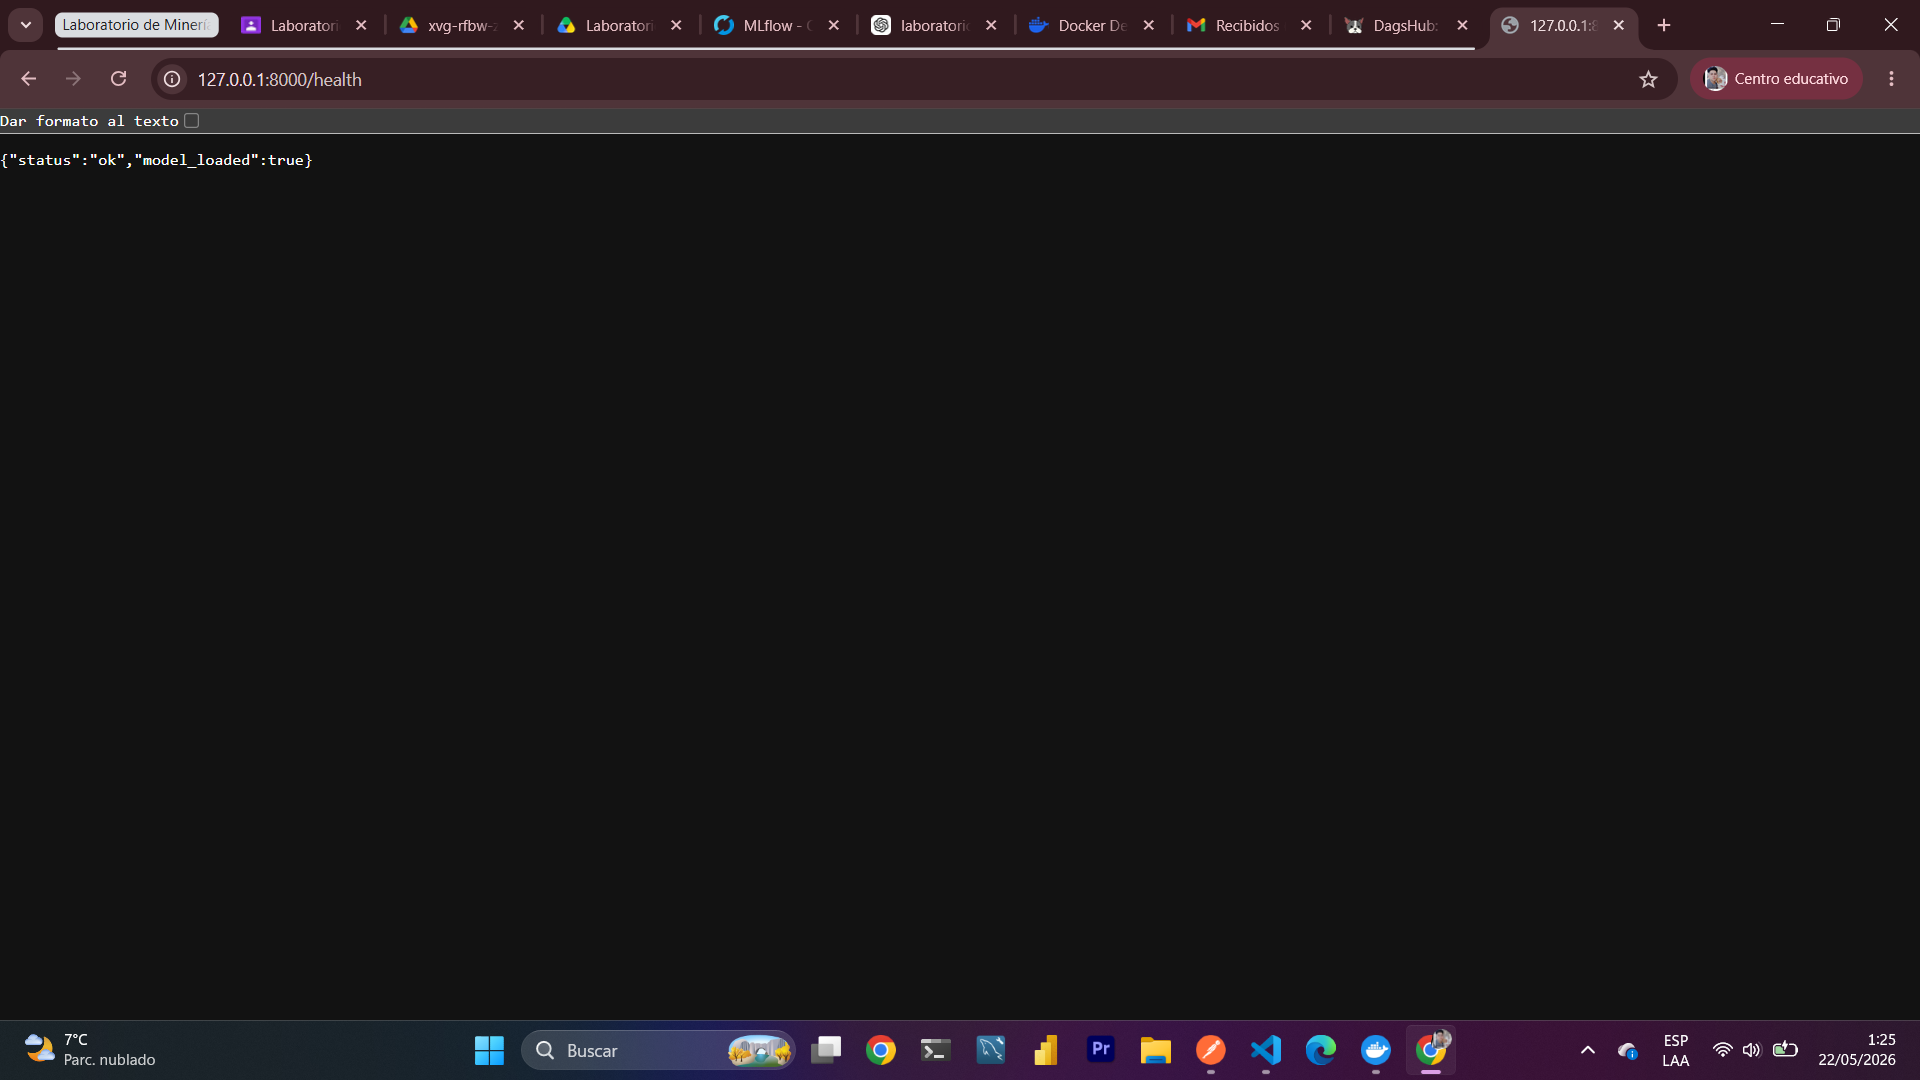
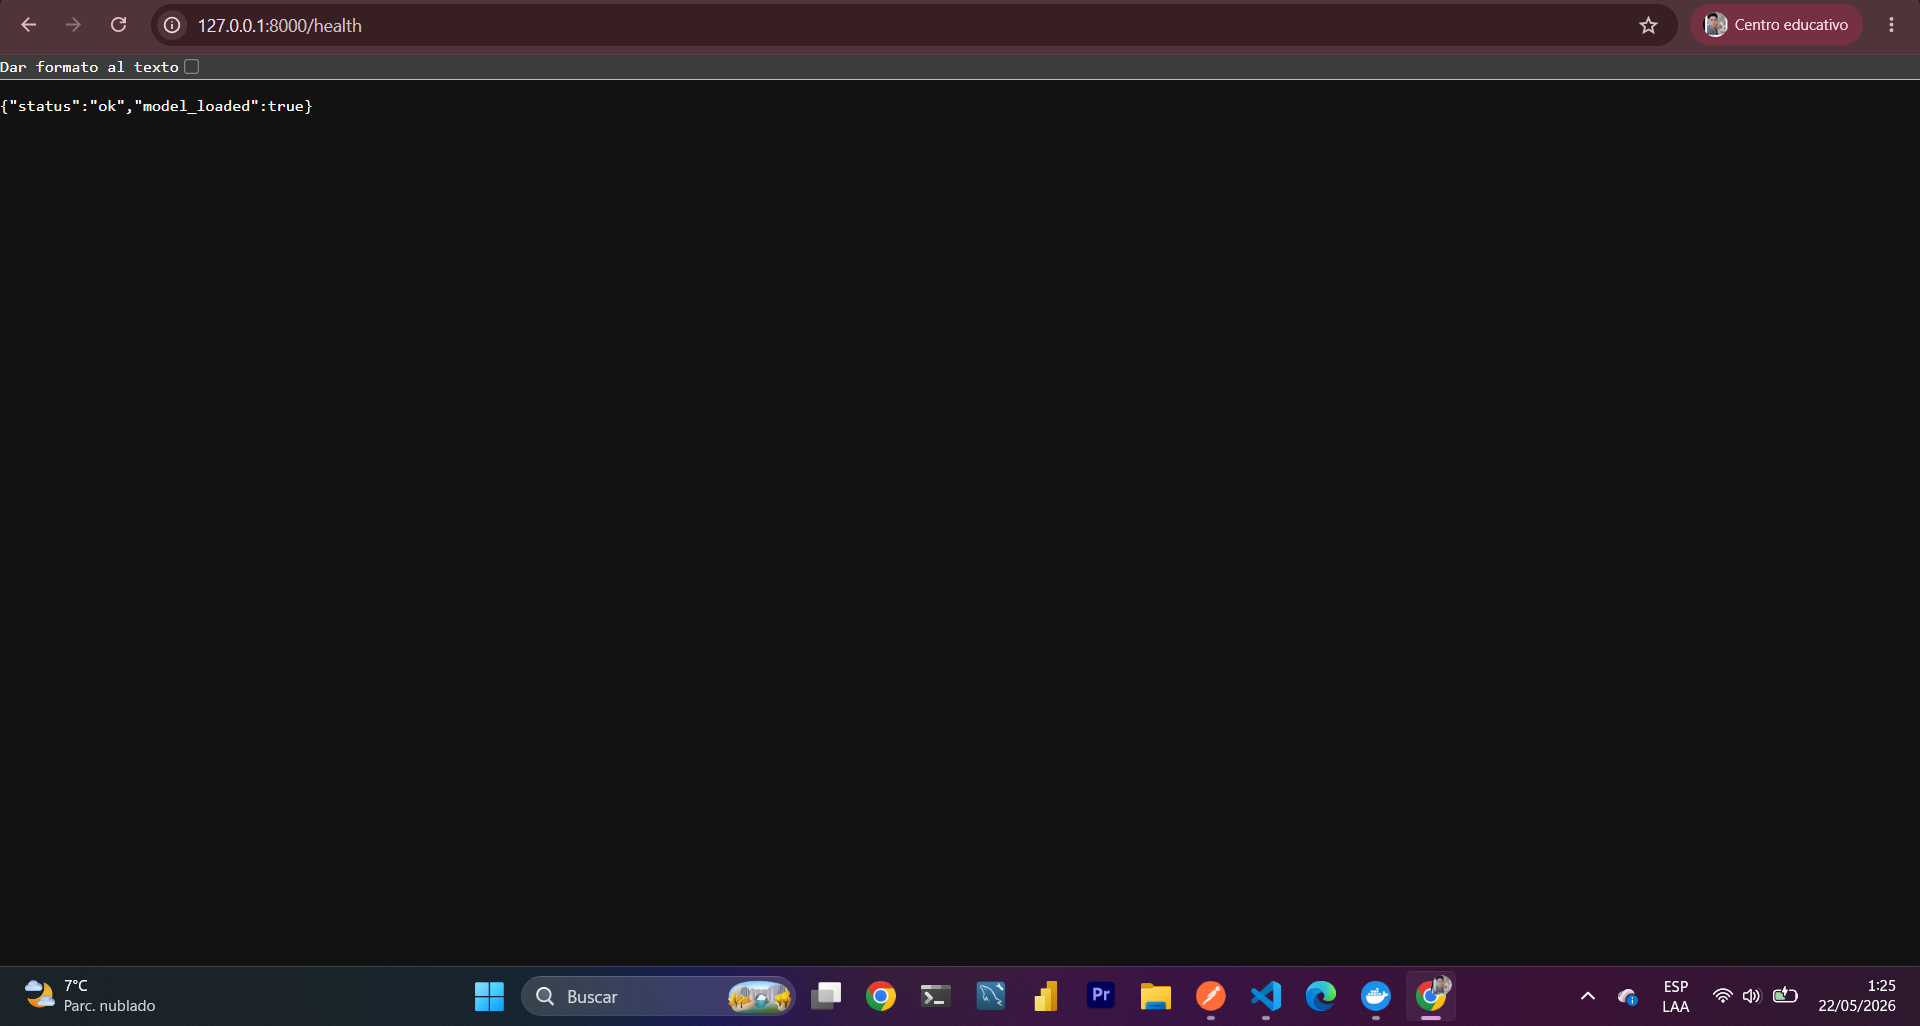
Agregar monitoreo tecnico y actualizar evidencias

Changed region(s): [[0.0, 0.0, 1.0, 0.1559], [0.1875, 0.9357, 1.0, 0.9981], [0.0, 0.9357, 0.0625, 0.9669]]

diff --git a/src/api.py b/src/api.py
@@ -1,4 +1,5 @@
 from pathlib import Path
+from prometheus_fastapi_instrumentator import Instrumentator
 from typing import Literal
 
 import joblib
@@ -16,6 +17,7 @@ app = FastAPI(
     description="API local para predecir abandono de clientes usando un modelo Extra Trees.",
     version="1.0.0"
 )
+Instrumentator().instrument(app).expose(app, endpoint="/metrics")
 
 
 class ChurnRequest(BaseModel):
